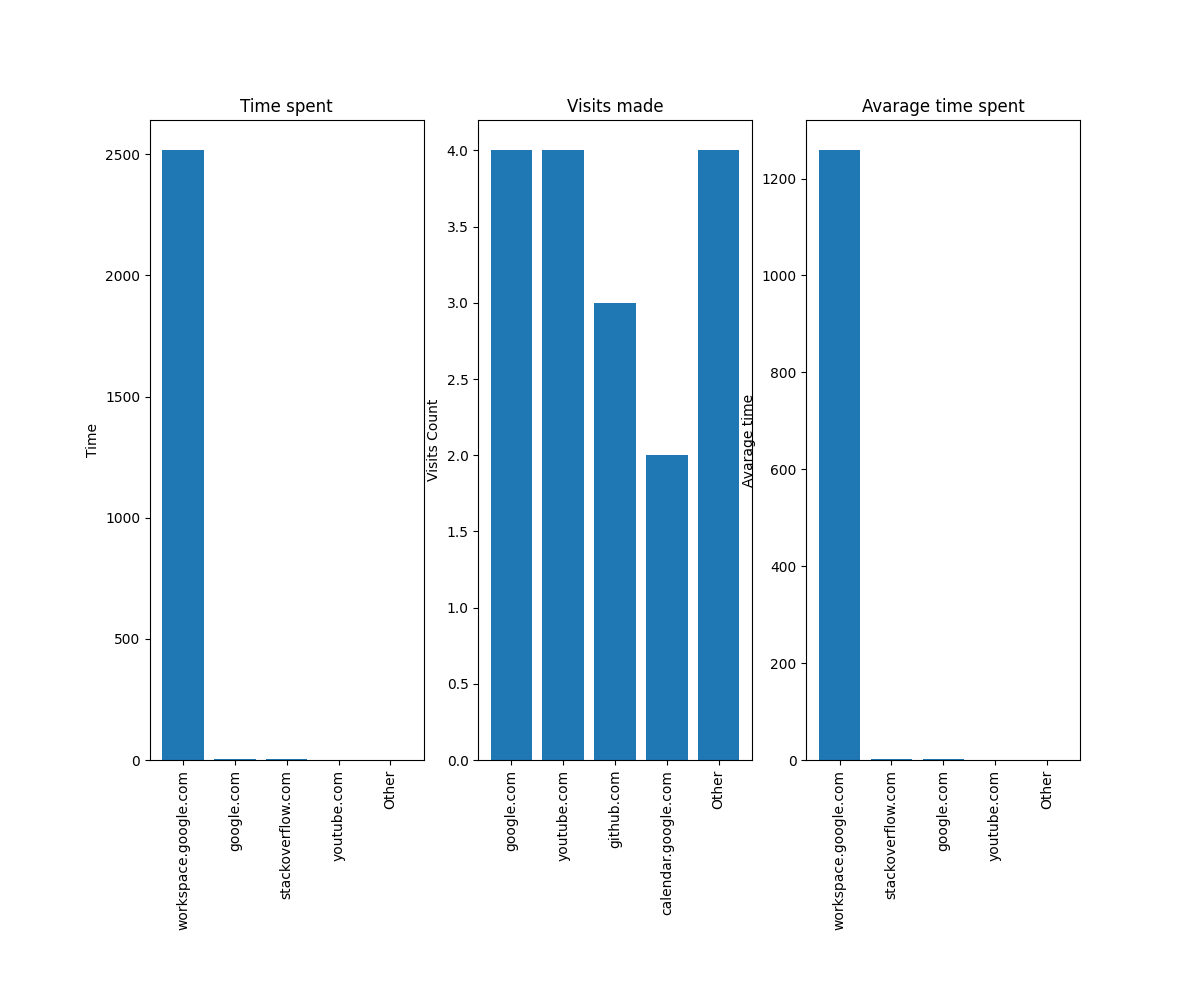
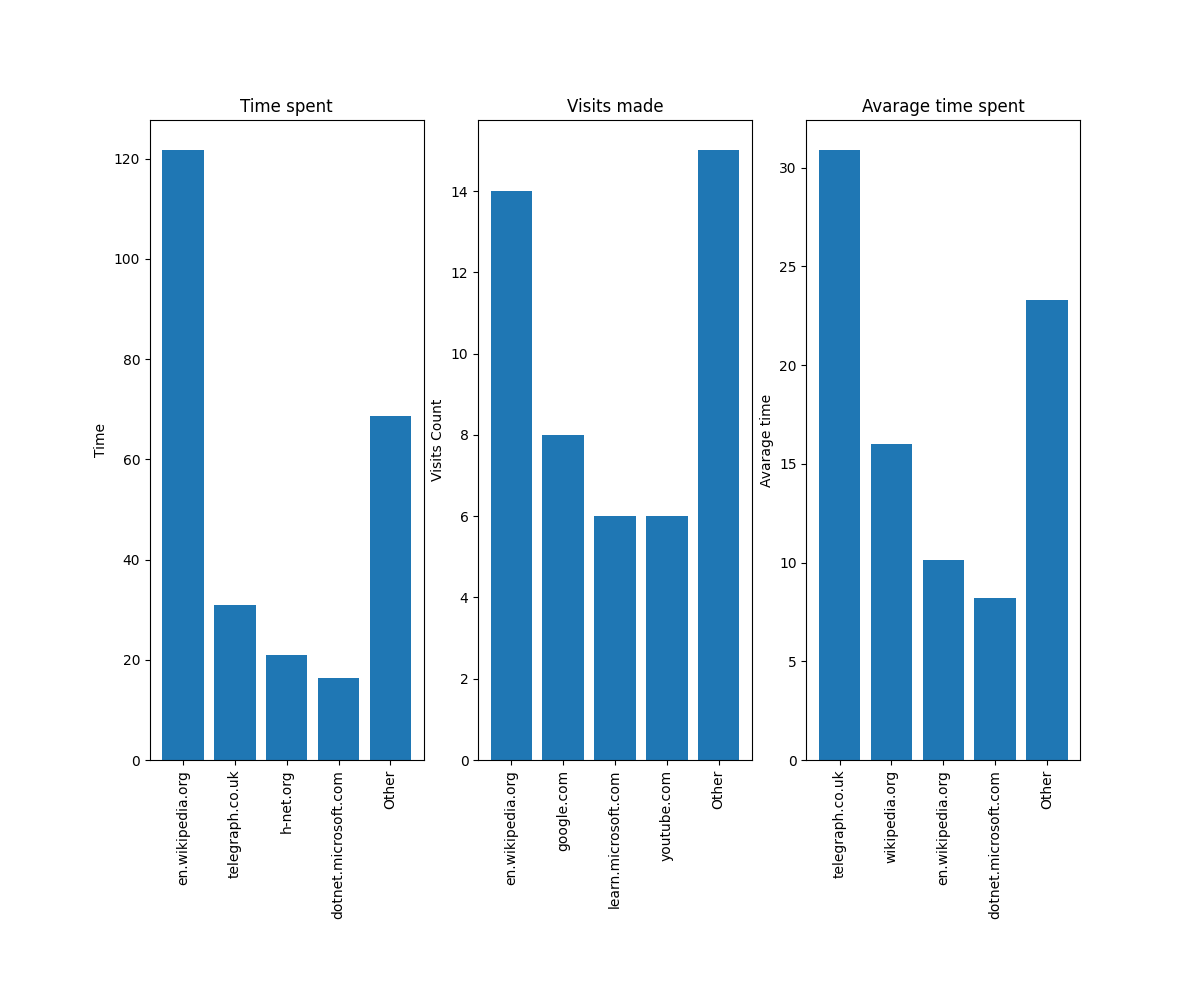
fix those typos

diff --git a/ploter.py b/ploter.py
@@ -22,17 +22,17 @@ class Ploter:
         visits_data = self.analyzer.prep_data_for_visits(visited_url)
         visits_data = self.analyzer.group_to_top(4, visits_data, "visit_count")
 
-        avarage_time_spent_data = self.analyzer.prep_data_for_average_time_spent(visited_url, visits)
-        avarage_time_spent_data = self.analyzer.group_to_top(4, avarage_time_spent_data, "avarage_time_spent")
+        average_time_spent_data = self.analyzer.prep_data_for_average_time_spent(visited_url, visits)
+        average_time_spent_data = self.analyzer.group_to_top(4, average_time_spent_data, "average_time_spent")
 
-        return time_spent_data, visits_data, avarage_time_spent_data
+        return time_spent_data, visits_data, average_time_spent_data
 
 
-    def plot(self, plot_name: str):
+    def plot(self, plot_path: str):
 
         fig, (ax1, ax2, ax3) = plt.subplots(1,3, figsize = (12 , 10))
 
-        time_spent_data, visits_data, avarage_time_spent_data = self.get_data_for_plots()
+        time_spent_data, visits_data, average_time_spent_data = self.get_data_for_plots()
 
         y = time_spent_data.time_spent.values
         x = time_spent_data.domain.values
@@ -57,18 +57,18 @@ class Ploter:
         ax2.set_xticks(ticks = np.arange(len(x)), labels = x, rotation="vertical")
 
         # Avarage time spent diagram
-        y = avarage_time_spent_data.avarage_time_spent.values
-        x = avarage_time_spent_data.domain.values
+        y = average_time_spent_data.average_time_spent.values
+        x = average_time_spent_data.domain.values
 
         ax3.bar(x, y)
 
-        ax3.set_ylabel('Avarage time')
-        ax3.set_title('Avarage time spent')
+        ax3.set_ylabel('Average time')
+        ax3.set_title('Average time spent')
 
         ax3.set_xticks(ticks = np.arange(len(x)), labels = x, rotation="vertical")
 
         plt.subplots_adjust(bottom=0.24)
 
-        plt.savefig("diagrams.png")
+        plt.savefig(plot_path)
 
         # plt.show()

diff --git a/browser_inspector.py b/browser_inspector.py
@@ -10,6 +10,7 @@ class BrowserInspector():
         self.visit_infos = []
         self.visits = []
         self.urls = []
+        self.direct_ip_calls = []
 
     def _collect_visits(self, profile_root: str, start_timestamp: int, end_timestamp: int) -> None:
         pass
@@ -40,6 +41,20 @@ class BrowserInspector():
 
         return self.visit_infos
 
+    def _looks_like_ipv4_address(self, url: str) -> bool:
+        yes = True
+        try:
+            for entry in url.split('.'):
+                if int(entry) < 0 and int(entry) > 256:
+                    yes = False
+        except:
+            yes = False
+
+        return yes
+
+    def get_info_on_ip_calls(self) -> str:
+        pass
+
     '''
     Locates suspicious site visit information based on provided site names, looking at the website url (site)
     input: a list of sites in a form of domain names
@@ -52,6 +67,8 @@ class BrowserInspector():
                 if site in actual_url:
                     # print(visit_info.as_dict)
                     suspicous_visits.append(visit_info)
+                elif self._looks_like_ipv4_address(site):
+                    self.direct_ip_calls.append(visit_info)
 
         return suspicous_visits
 

diff --git a/analyzer.py b/analyzer.py
@@ -91,7 +91,7 @@ class Analyzer:
     def prep_data_for_average_time_spent(self, visited_url: pd.DataFrame, visit: pd.DataFrame) -> pd.DataFrame:
         '''
             Window in considered to be time spent in one url.
-            New columnm with data is "avarage_time_spent"
+            New columnm with data is "average_time_spent"
         '''
         unique_domains = visited_url["domain"].unique()
 
@@ -101,9 +101,9 @@ class Analyzer:
         
         preped_df = pd.DataFrame(data=unique_domains, columns=["domain"])
         
-        preped_df["avarage_time_spent"] = preped_df.domain.apply(lambda x: inter_df[inter_df.domain == x]["time_spent"].mean())
+        preped_df["average_time_spent"] = preped_df.domain.apply(lambda x: inter_df[inter_df.domain == x]["time_spent"].mean())
 
-        preped_df["avarage_time_spent"] = preped_df.avarage_time_spent.apply(lambda x: round(x/1000000, 2))
+        preped_df["average_time_spent"] = preped_df.average_time_spent.apply(lambda x: round(x/1000000, 2))
 
         return preped_df
     

diff --git a/config.py b/config.py
@@ -2,8 +2,8 @@ from pathlib import Path
 
 # Files paths differ for users. Descriptions possible file paths for different OS can be found in README file
 # Uncomment the configuration based on your system:
-PATH_TO_BROWSER = "{}/AppData/Local/Google/Chrome/User Data".format(Path.home()) # Windows
-# PATH_TO_BROWSER = "{}/Library/Application Support/Google/Chrome".format(Path.home()) # macOS
+# PATH_TO_BROWSER = "{}/AppData/Local/Google/Chrome/User Data".format(Path.home()) # Windows
+PATH_TO_BROWSER = "{}/Library/Application Support/Google/Chrome".format(Path.home()) # macOS
 
 # Date format YYYY-MM-DD as a string
 # Browsing history data collection period
@@ -11,5 +11,5 @@ PATH_TO_BROWSER = "{}/AppData/Local/Google/Chrome/User Data".format(Path.home())
 START_DATE = "none" # none if want whatever date 
 END_DATE = "none" #"2023-11-04"
 
-SUSPICIOUS_SITES = []
+SUSPICIOUS_SITES = [] # Checks for suspicious urls or sites
 SUSPICIOUS_KEYWORDS = [] # Checks for suspicious words in website title
